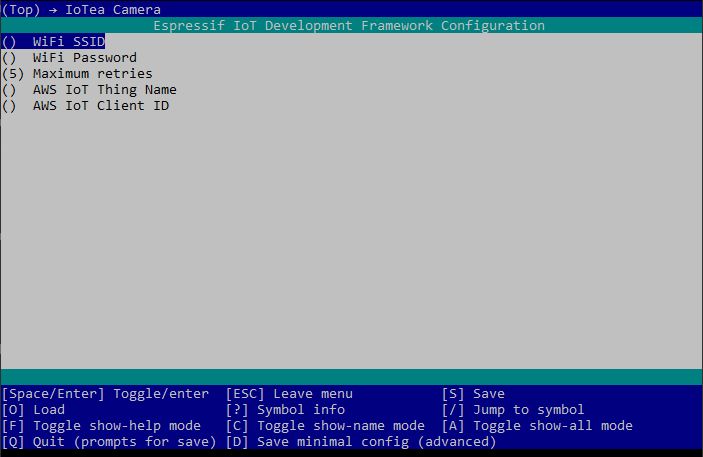
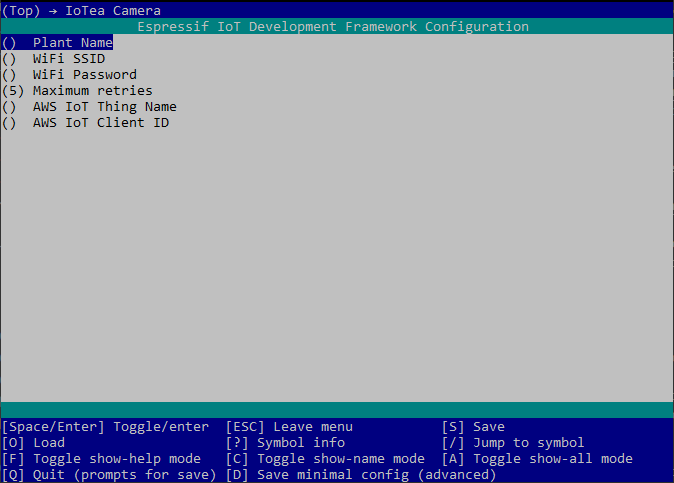
Updated readme to include Plant Name

diff --git a/iotea-camera/README.md b/iotea-camera/README.md
@@ -31,11 +31,11 @@ Once you have completed these steps you can build and flash the program onto the
 # Building/Flashing
 Run the espressif tooling and navigate to the iotea-camera directory. From there run the following commands.
 1. Run `idf.py set-target esp32` This only needs to be run once after cloning
-2. Run `idf.py menuconfig` To set the config options for the project. 
+2. Run `idf.py menuconfig` to set the config options for the project. 
     1. **Set config values:** 
         * Navigate into the **IoTea Camera** menu.
         ![IoTea Camera menu item in menuconfig](./images/IoTea-menu-item.png)
-        * Enter your WiFi settings (SSID and password) to allow the board to access the internet and enter your AWS info (name of thing and client ID).
+        * Enter your plant name (should be exactly the same as you used for the sensors in `../firmware/mos.yml`), your WiFi settings, your ASW Thing name you created for the ESP-EYE and your AWS Client ID.
         ![IoTea settings menu](./images/IoTea-settings.png)
     2. **Enable PSRAM:** 
         * Navigate into the **Component config** menu.
